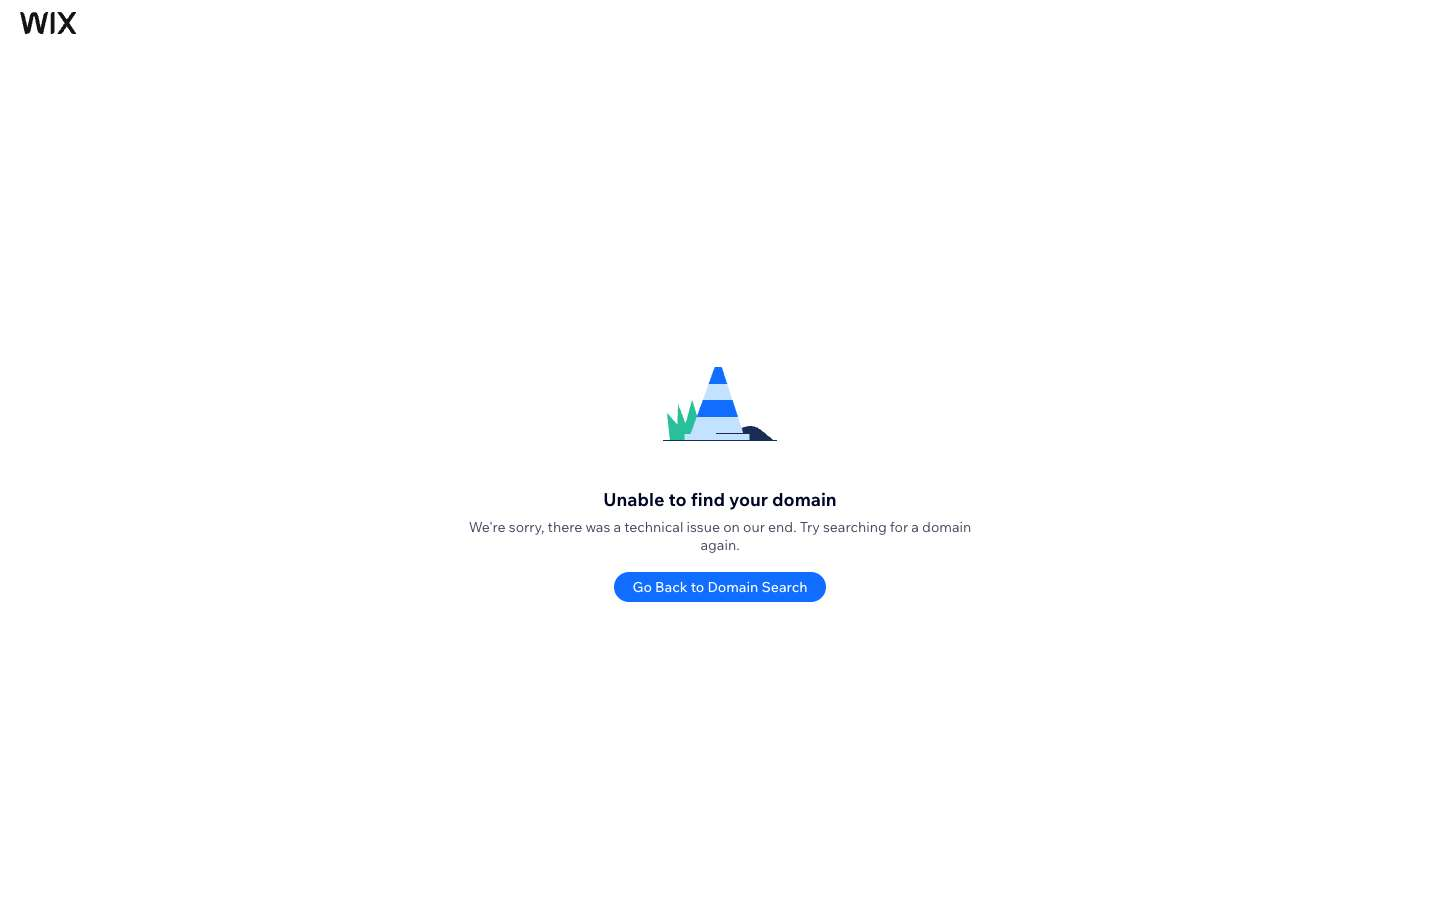
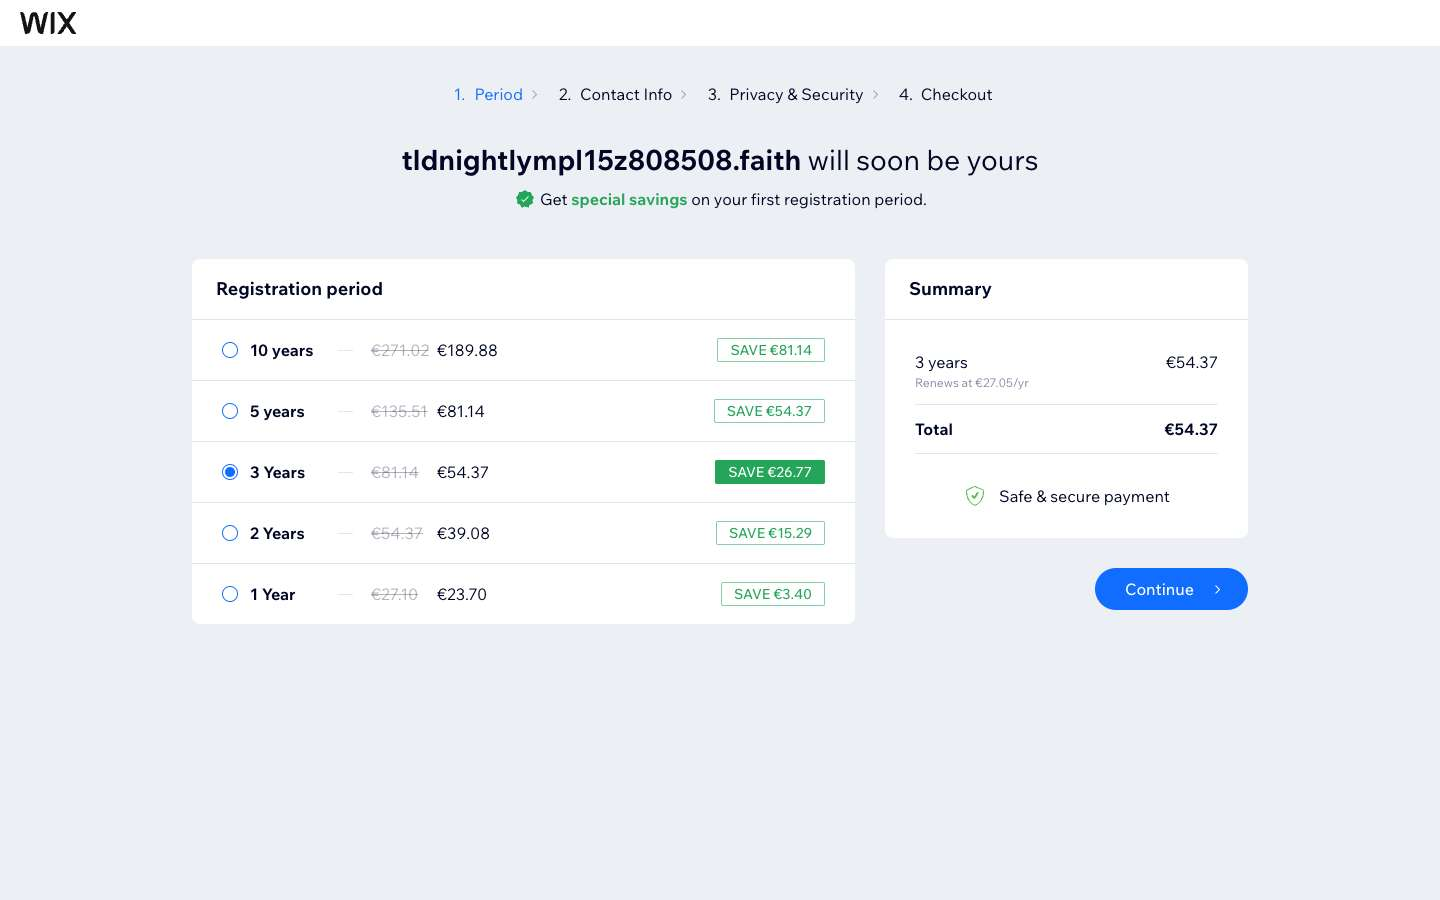
live: progress update 09:55Z

diff --git a/index.html b/index.html
@@ -57,25 +57,25 @@
 </head>
 <body>
   <div class="container">
-    <div class="live-banner"><div class="dot"></div><div><strong>LIVE — run in progress.</strong> Auto-refreshes every 60s. Republished every 3 min. 133 of 394 TLDs complete (33.8%).</div></div>
+    <div class="live-banner"><div class="dot"></div><div><strong>LIVE — run in progress.</strong> Auto-refreshes every 60s. Republished every 3 min. 136 of 394 TLDs complete (34.5%).</div></div>
 
     <header>
       <h1>Nightly TLD Checkout — Sanity Sweep</h1>
       <p>Goal: verify the purchase flow reaches the <strong>contact-info page</strong> for every TLD Wix supports.</p>
-      <p style="margin-top:4px">Updated: <strong>Mon, 25 May 2026 09:55:14 GMT</strong> &nbsp;|&nbsp; Source: <code>domains/domain-tld/src/com/wixpress/premium/domain/tlds/repo/Tlds.scala allTlds</code></p>
+      <p style="margin-top:4px">Updated: <strong>Mon, 25 May 2026 09:55:45 GMT</strong> &nbsp;|&nbsp; Source: <code>domains/domain-tld/src/com/wixpress/premium/domain/tlds/repo/Tlds.scala allTlds</code></p>
     </header>
 
     <div class="stats">
       <div class="stat-card"><div class="number">394</div><div class="label">TLDs Total</div></div>
-      <div class="stat-card pass"><div class="number">130</div><div class="label">Passed</div></div>
+      <div class="stat-card pass"><div class="number">133</div><div class="label">Passed</div></div>
       <div class="stat-card fail"><div class="number">3</div><div class="label">Failed</div></div>
-      <div class="stat-card pending"><div class="number">261</div><div class="label">Pending</div></div>
+      <div class="stat-card pending"><div class="number">258</div><div class="label">Pending</div></div>
       <div class="stat-card rate"><div class="number">98%</div><div class="label">Pass Rate*</div></div>
     </div>
-    <p style="text-align:center;color:#8e8e93;font-size:12px;margin-bottom:24px">*Pass rate on 133 executed tests so far.</p>
+    <p style="text-align:center;color:#8e8e93;font-size:12px;margin-bottom:24px">*Pass rate on 136 executed tests so far.</p>
 
     <div class="progress-bar">
-      <div class="progress-fill pass" style="width:32.99492385786802%"></div>
+      <div class="progress-fill pass" style="width:33.756345177664976%"></div>
       <div class="progress-fill fail" style="width:0.7614213197969544%"></div>
       <div class="progress-fill skip" style="width:0%"></div>
     </div>
@@ -98,7 +98,7 @@
     <div class="section">
       <div class="section-header">
         <span>gTLDs (380)</span>
-        <span class="badge badge-mix">126 ✓ · 0 ✗ · 254 ⌛</span>
+        <span class="badge badge-mix">129 ✓ · 0 ✗ · 251 ⌛</span>
       </div>
       <table>
         <tr><th>TLD</th><th>Status</th><th>Duration</th><th>Screenshot</th></tr>
@@ -228,10 +228,10 @@
 <tr><td><code>.exposed</code></td><td><span class="status status-pass">✓ PASS</span></td><td>16.0s</td><td><a href="screenshots/exposed.jpg" target="_blank" onclick="openLightbox(event, 'screenshots/exposed.jpg', '.exposed')"><img src="screenshots/exposed.jpg" alt=".exposed" class="thumb" loading="lazy"></a></td></tr>
 <tr><td><code>.express</code></td><td><span class="status status-pass">✓ PASS</span></td><td>20.5s</td><td><a href="screenshots/express.jpg" target="_blank" onclick="openLightbox(event, 'screenshots/express.jpg', '.express')"><img src="screenshots/express.jpg" alt=".express" class="thumb" loading="lazy"></a></td></tr>
 <tr><td><code>.fail</code></td><td><span class="status status-pass">✓ PASS</span></td><td>18.1s</td><td><a href="screenshots/fail.jpg" target="_blank" onclick="openLightbox(event, 'screenshots/fail.jpg', '.fail')"><img src="screenshots/fail.jpg" alt=".fail" class="thumb" loading="lazy"></a></td></tr>
-<tr><td><code>.faith</code></td><td><span class="status status-pending">⌛ PENDING</span></td><td>—</td><td>—</td></tr>
-<tr><td><code>.family</code></td><td><span class="status status-pending">⌛ PENDING</span></td><td>—</td><td>—</td></tr>
+<tr><td><code>.faith</code></td><td><span class="status status-pass">✓ PASS</span></td><td>27.6s</td><td><a href="screenshots/faith.jpg" target="_blank" onclick="openLightbox(event, 'screenshots/faith.jpg', '.faith')"><img src="screenshots/faith.jpg" alt=".faith" class="thumb" loading="lazy"></a></td></tr>
+<tr><td><code>.family</code></td><td><span class="status status-pass">✓ PASS</span></td><td>21.9s</td><td><a href="screenshots/family.jpg" target="_blank" onclick="openLightbox(event, 'screenshots/family.jpg', '.family')"><img src="screenshots/family.jpg" alt=".family" class="thumb" loading="lazy"></a></td></tr>
+<tr><td><code>.fans</code></td><td><span class="status status-pass">✓ PASS</span></td><td>14.5s</td><td><a href="screenshots/fans.jpg" target="_blank" onclick="openLightbox(event, 'screenshots/fans.jpg', '.fans')"><img src="screenshots/fans.jpg" alt=".fans" class="thumb" loading="lazy"></a></td></tr>
 <tr><td><code>.fan</code></td><td><span class="status status-pending">⌛ PENDING</span></td><td>—</td><td>—</td></tr>
-<tr><td><code>.fans</code></td><td><span class="status status-pending">⌛ PENDING</span></td><td>—</td><td>—</td></tr>
 <tr><td><code>.farm</code></td><td><span class="status status-pending">⌛ PENDING</span></td><td>—</td><td>—</td></tr>
 <tr><td><code>.fashion</code></td><td><span class="status status-pending">⌛ PENDING</span></td><td>—</td><td>—</td></tr>
 <tr><td><code>.fast</code></td><td><span class="status status-pending">⌛ PENDING</span></td><td>—</td><td>—</td></tr>